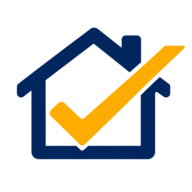
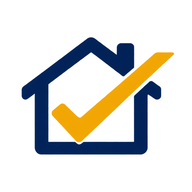
Deploy approved navy, white, and gold CertivoIQ identity

Changed region(s): [[0.0625, 0.125, 0.9688, 0.8438], [0.5625, 0.4688, 0.5938, 0.5], [0.3125, 0.6562, 0.3438, 0.6875]]

diff --git a/src/routes/auth.tsx b/src/routes/auth.tsx
@@ -150,7 +150,7 @@ function AuthPage() {
   const heading = mfaMode ? "Two-factor authentication" : mode === "signin" ? "Sign in to CertivoIQ" : mode === "signup" ? "Create your CertivoIQ account" : "Reset your CertivoIQ password";
   return (
     <div className="grid min-h-screen place-items-center bg-background px-4 py-12"><div className="w-full max-w-md">
-      <Link to="/welcome" className="flex items-center justify-center gap-2.5"><img src="/certivoiq-logo.png" alt="CertivoIQ" className="h-11 w-auto rounded-md bg-white px-2 py-1.5 object-contain" /></Link>
+      <Link to="/welcome" className="flex items-center justify-center gap-2.5"><img src="/certivoiq-logo.png" alt="CertivoIQ" className="h-12 w-auto object-contain" /></Link>
       <div className="mt-7 rounded-xl border border-border bg-card p-6 shadow-sm"><h1 className="font-display text-[22px] leading-tight"><IQText>{heading}</IQText></h1><p className="mt-1 text-[13px] text-muted-foreground">{mfaMode ? "Enter the 6-digit code from your authenticator app." : mode === "forgot" ? "Enter your work email and we'll send a secure link to choose a new password." : "Your CertivoIQ compliance workspace."}</p>
         {sentTo && !mfaMode && <div className="mt-4 rounded-lg border border-border bg-muted/40 p-3.5"><p className="flex items-start gap-2 text-[13px]"><MailCheck className="mt-0.5 size-4 shrink-0 text-seal" /><span>{sentTo.kind === "verify" ? "Confirm your email address to activate the account. " : "Password reset link sent. "}We emailed <span className="font-medium">{sentTo.email}</span>.</span></p>{sentTo.kind === "verify" && <Button variant="outline" size="sm" className="mt-3 w-full" disabled={busy} onClick={resendVerification}>{busy && <Loader2 className="size-4 animate-spin" />}Resend verification email</Button>}</div>}
         {mfaMode ? <div className="mt-5 space-y-4"><div className="flex items-center gap-2 rounded-lg border border-gold/30 bg-gold/5 p-3"><KeyRound className="size-4 text-gold" /><p className="text-[13px] text-gold-ink">Your account requires an authenticator code to sign in.</p></div><div><Label htmlFor="mfa-code" className="text-[12px] uppercase tracking-wide">{recoveryMode ? "Recovery code" : "Authenticator code"}</Label><div className="mt-2">{recoveryMode ? <Input id="recovery-code" value={mfaCode} onChange={(e) => setMfaCode(e.target.value.toUpperCase())} placeholder="XXXX-XXXX-XXX" disabled={busy} autoComplete="off" /> : <InputOTP id="mfa-code" maxLength={6} value={mfaCode} onChange={setMfaCode} disabled={busy}><InputOTPGroup><InputOTPSlot index={0} /><InputOTPSlot index={1} /><InputOTPSlot index={2} /><InputOTPSlot index={3} /><InputOTPSlot index={4} /><InputOTPSlot index={5} /></InputOTPGroup></InputOTP>}</div><Button className="mt-4 w-full" disabled={busy || (recoveryMode ? mfaCode.length < 8 : mfaCode.length !== 6)} onClick={recoveryMode ? handleRecoveryCode : handleMfaVerify}>{busy && <Loader2 className="mr-2 size-4 animate-spin" />}{recoveryMode ? "Use recovery code" : "Verify and sign in"}</Button></div></div> : <form onSubmit={submit} className="mt-5 space-y-3.5">{mode === "signup" && <div className="space-y-1.5"><Label htmlFor="name">Full name</Label><Input id="name" value={name} onChange={(e) => setName(e.target.value)} maxLength={120} /></div>}<div className="space-y-1.5"><Label htmlFor="email">Work email</Label><Input id="email" type="email" required autoComplete="email" value={email} onChange={(e) => setEmail(e.target.value)} maxLength={255} /></div>{mode !== "forgot" && <div className="space-y-1.5"><div className="flex items-baseline justify-between"><Label htmlFor="password">Password</Label>{mode === "signin" && <button type="button" className="text-[12px] font-medium text-primary hover:underline" onClick={() => { setSentTo(null); setMode("forgot"); }}>Forgot password?</button>}</div><Input id="password" type="password" required minLength={8} autoComplete={mode === "signin" ? "current-password" : "new-password"} value={password} onChange={(e) => setPassword(e.target.value)} /></div>}<Button type="submit" className="w-full" disabled={busy}>{busy && <Loader2 className="size-4 animate-spin" />}{mode === "signin" ? "Sign in" : mode === "signup" ? "Create account" : "Send reset link"}</Button></form>}

diff --git a/src/routes/welcome.tsx b/src/routes/welcome.tsx
@@ -93,7 +93,7 @@ function WelcomePage() {
       <header className="sticky top-0 z-40 border-b border-border/80 bg-background/90 backdrop-blur">
         <div className="mx-auto flex max-w-7xl items-center justify-between gap-4 px-5 py-4 lg:px-8">
           <Link to="/welcome" className="flex items-center gap-2.5">
-            <img src="/certivoiq-logo.png" alt="CertivoIQ" className="h-9 w-auto rounded-md bg-white px-1.5 py-1 object-contain" />
+            <img src="/certivoiq-logo.png" alt="CertivoIQ" className="h-11 w-auto object-contain" />
           </Link>
           <nav className="hidden items-center gap-1 md:flex">
             <a href="#how-it-works" className="px-3 py-2 text-[13px] text-muted-foreground hover:text-foreground">How it works</a>
@@ -295,7 +295,7 @@ function WelcomePage() {
 
       <footer className="border-t border-border py-8">
         <div className="mx-auto flex max-w-7xl flex-col items-center justify-between gap-3 px-5 text-center sm:flex-row sm:text-left lg:px-8">
-          <div><img src="/certivoiq-logo.png" alt="CertivoIQ" className="h-8 w-auto rounded bg-white px-1.5 py-1 object-contain" /><p className="mt-1 text-[11px] text-muted-foreground">FIND COMPLIANCE RISK BEFORE THE AUDITOR.</p></div>
+          <div><img src="/certivoiq-logo.png" alt="CertivoIQ" className="h-9 w-auto object-contain" /><p className="mt-1 text-[11px] text-muted-foreground">FIND COMPLIANCE RISK BEFORE THE AUDITOR.</p></div>
           <div className="flex flex-wrap justify-center gap-4 text-[11px] text-muted-foreground sm:justify-end"><Link className="underline" to="/privacy">Privacy</Link><Link className="underline" to="/terms">Terms</Link><Link className="underline" to="/security">Security &amp; data use</Link><Link className="underline" to="/methodology">Methodology</Link><Link className="underline" to="/contact-support">Contact</Link></div>
         </div>
         <p className="cite mt-4 text-center">Federal baseline review only. State-agency, allocating-agency, local, and project-specific requirements require separate Manual Review.</p>

diff --git a/src/routes/_authenticated/marketing-kit.tsx b/src/routes/_authenticated/marketing-kit.tsx
@@ -69,7 +69,7 @@ function MarketingKitPage() {
       </div>
       <article className="print-sheet mx-auto my-8 max-w-3xl rounded-lg border border-border bg-card p-8 shadow-ledger print:my-0">
         <header className="flex items-start justify-between gap-4 border-b border-border pb-5">
-          <div><img src="/certivoiq-logo.png" alt="CertivoIQ" className="h-12 w-auto rounded-md bg-white px-2 py-1 object-contain" /><p className="mt-1.5 text-[12.5px] text-muted-foreground">Compliance intelligence infrastructure — LIHTC · HOME · Project-Based Section 8 · HOTMA</p></div>
+          <div><img src="/certivoiq-logo.png" alt="CertivoIQ" className="h-14 w-auto object-contain" /><p className="mt-1.5 text-[12.5px] text-muted-foreground">Compliance intelligence infrastructure — LIHTC · HOME · Project-Based Section 8 · HOTMA</p></div>
           <p className="text-right text-[11.5px] leading-snug text-muted-foreground">certivoiq.com/welcome<br />Federal baseline compliance intelligence</p>
         </header>
         <section className="print-avoid-break mt-6"><h2 className="font-display text-[26px] leading-[1.15]">One missed certification can cost <span className="text-reject">years of tax credits</span></h2><p className="mt-3 text-[13.5px] leading-relaxed text-muted-foreground">CertivoIQ evaluates certification evidence against supported, versioned federal requirements and returns traceable findings or Unable to Determine when evidence or scope is incomplete. An authorized compliance agent retains Agent Approval authority and provides an Agent Signature.</p></section>

diff --git a/src/components/explainer-video.tsx b/src/components/explainer-video.tsx
@@ -88,7 +88,7 @@ function Scene4() {
   return (
     <div style={{ textAlign: "center", maxWidth: 560, margin: "0 auto" }}>
       <div style={{ fontFamily: C.mono, fontSize: 11, letterSpacing: "0.25em", color: C.muted, textTransform: "uppercase", marginBottom: 20, ...a("fadeUp", "0.1s") }}>federal baseline compliance intelligence</div>
-      <img src="/certivoiq-logo.png" alt="CertivoIQ" style={{ width: "min(360px,80vw)", height: "auto", margin: "0 auto 14px", borderRadius: 8, background: "#ffffff", padding: "8px 12px", objectFit: "contain", ...a("scaleIn", "0.3s", "0.7s") }} />
+      <img src="/certivoiq-logo-dark.png" alt="CertivoIQ" style={{ width: "min(420px,84vw)", height: "auto", margin: "0 auto 18px", objectFit: "contain", ...a("scaleIn", "0.3s", "0.7s") }} />
       <div style={{ fontSize: "clamp(13px,1.9vw,17px)", color: C.sky, lineHeight: 1.6, marginBottom: 30, ...a("fadeUp", "0.7s") }}>Find compliance risk before the auditor.</div>
       <div style={{ display: "flex", justifyContent: "center", ...a("fadeUp", "0.95s") }}><a href="/trial" style={{ borderRadius: 8, background: C.blue, padding: "12px 24px", fontSize: 14, fontWeight: 600, color: C.white, textDecoration: "none", boxShadow: "0 4px 18px rgba(37,99,235,0.45)" }}>Try CertivoIQ for Free</a></div>
       <div style={{ marginTop: 14, fontSize: "clamp(10px,1.3vw,12px)", color: C.muted, ...a("fadeUp", "1.1s", "0.5s") }}>$65,000 ANNUAL PLATFORM LICENSE</div>

diff --git a/src/components/app-shell.tsx b/src/components/app-shell.tsx
@@ -43,7 +43,7 @@ const NAV = [
 function Wordmark() {
   return (
     <Link to="/dashboard" className="flex items-center gap-2.5">
-      <img src="/certivoiq-logo.png" alt="CertivoIQ" className="h-9 w-auto rounded-md bg-white px-1.5 py-1 object-contain" />
+      <img src="/certivoiq-logo-dark.png" alt="CertivoIQ" className="h-12 w-auto object-contain" />
     </Link>
   );
 }
@@ -88,7 +88,7 @@ export function AppShell({ children, title, subtitle, actions }: { children: Rea
     <div className="min-h-screen lg:grid lg:grid-cols-[248px_1fr]">
       <aside className="hidden flex-col border-r border-sidebar-border bg-sidebar px-4 py-5 lg:sticky lg:top-0 lg:flex lg:h-screen">
         <Wordmark />
-        <p className="mt-1.5 pl-[42px] text-[11px] tracking-wide text-sidebar-foreground/55">{t("shell.tagline")}</p>
+        <p className="mt-2 pl-1 text-[11px] tracking-wide text-sidebar-foreground/55">{t("shell.tagline")}</p>
         <div className="mt-7 overflow-y-auto"><NavLinks /></div>
         <div className="mt-auto rounded-lg border border-sidebar-border/70 bg-sidebar-accent/40 p-3">
           <p className="cite text-[10.5px] uppercase tracking-[0.16em] text-sidebar-foreground/60">{t("shell.rulePacksActive")}</p>

diff --git a/src/routes/__root.tsx b/src/routes/__root.tsx
@@ -96,8 +96,8 @@ export const Route = createRootRouteWithContext<{ queryClient: QueryClient }>()(
       { property: "og:url", content: "https://certivoiq.com/welcome" },
       { property: "og:site_name", content: "CertivoIQ" },
       { property: "og:image", content: "https://certivoiq.com/certivoiq-social-card.png" },
-      { property: "og:image:width", content: "1254" },
-      { property: "og:image:height", content: "1254" },
+      { property: "og:image:width", content: "1200" },
+      { property: "og:image:height", content: "630" },
       { property: "og:image:alt", content: "CertivoIQ — Find compliance risk before the auditor." },
       { name: "twitter:card", content: "summary_large_image" },
       { name: "twitter:image", content: "https://certivoiq.com/certivoiq-social-card.png" },

diff --git a/src/routes/pha/$persona.tsx b/src/routes/pha/$persona.tsx
@@ -211,7 +211,7 @@ function PhaPersonaPage() {
     <div className="min-h-screen bg-background text-foreground">
       <header className="border-b border-border/80 bg-background/95">
         <div className="mx-auto flex max-w-7xl items-center justify-between px-5 py-4 lg:px-8">
-          <Link to="/welcome"><img src="/certivoiq-logo.png" alt="CertivoIQ" className="h-9 w-auto rounded-md bg-white px-1.5 py-1" /></Link>
+          <Link to="/welcome"><img src="/certivoiq-logo.png" alt="CertivoIQ" className="h-11 w-auto object-contain" /></Link>
           <div className="flex items-center gap-3">
             <Button variant="outline" asChild><Link to="/pha">PHA roles</Link></Button>
             <Button asChild><a href="#request">{page.cta}</a></Button>

diff --git a/src/components/public-shell.tsx b/src/components/public-shell.tsx
@@ -8,7 +8,7 @@ import { LanguageToggle } from "@/components/language-toggle";
 function PublicWordmark() {
   return (
     <Link to="/welcome" className="flex min-w-0 items-center gap-2.5">
-      <img src="/certivoiq-logo.png" alt="CertivoIQ" className="h-9 w-auto shrink-0 rounded-md bg-white px-1.5 py-1 object-contain" />
+      <img src="/certivoiq-logo.png" alt="CertivoIQ" className="h-11 w-auto shrink-0 object-contain" />
       <span className="hidden truncate text-[11.5px] font-semibold uppercase leading-tight tracking-[.12em] text-muted-foreground lg:inline">
         Affordable Housing Compliance Intelligence
       </span>

diff --git a/src/routes/methodology.tsx b/src/routes/methodology.tsx
@@ -77,7 +77,7 @@ function MethodologyPage() {
       <header className="border-b border-border">
         <div className="mx-auto flex max-w-4xl items-center justify-between gap-4 px-5 py-4">
           <Link to="/welcome" className="flex items-center gap-2.5">
-            <img src="/certivoiq-logo.png" alt="CertivoIQ" className="h-9 w-auto rounded-md bg-white px-1.5 py-1 object-contain" />
+            <img src="/certivoiq-logo.png" alt="CertivoIQ" className="h-11 w-auto object-contain" />
           </Link>
           <Button size="sm" variant="outline" asChild>
             <Link to="/security">Security &amp; Data Use</Link>

diff --git a/src/routes/pha/index.tsx b/src/routes/pha/index.tsx
@@ -76,7 +76,7 @@ function PhaOverviewPage() {
       <header className="border-b border-border/80 bg-background/95">
         <div className="mx-auto flex max-w-7xl items-center justify-between px-5 py-4 lg:px-8">
           <Link to="/welcome">
-            <img src="/certivoiq-logo.png" alt="CertivoIQ" className="h-9 w-auto rounded-md bg-white px-1.5 py-1" />
+            <img src="/certivoiq-logo.png" alt="CertivoIQ" className="h-11 w-auto object-contain" />
           </Link>
           <div className="flex items-center gap-3">
             <Button variant="outline" asChild><Link to="/welcome">Main site</Link></Button>

diff --git a/src/routes/security.tsx b/src/routes/security.tsx
@@ -74,7 +74,7 @@ function SecurityCenterPage() {
       <header className="border-b border-border">
         <div className="mx-auto flex max-w-4xl items-center justify-between gap-4 px-5 py-4">
           <Link to="/welcome" className="flex items-center gap-2.5">
-            <img src="/certivoiq-logo.png" alt="CertivoIQ" className="h-9 w-auto rounded-md bg-white px-1.5 py-1 object-contain" />
+            <img src="/certivoiq-logo.png" alt="CertivoIQ" className="h-11 w-auto object-contain" />
           </Link>
           <Button size="sm" variant="outline" asChild>
             <Link to="/methodology">Methodology</Link>

diff --git a/src/routes/contact-support.tsx b/src/routes/contact-support.tsx
@@ -94,7 +94,7 @@ function ContactSupportPage() {
       <header className="border-b border-border">
         <div className="mx-auto flex max-w-6xl items-center justify-between gap-4 px-5 py-4">
           <Link to="/welcome" className="flex items-center gap-2.5">
-            <img src="/certivoiq-logo.png" alt="CertivoIQ" className="h-9 w-auto rounded-md bg-white px-1.5 py-1 object-contain" />
+            <img src="/certivoiq-logo.png" alt="CertivoIQ" className="h-11 w-auto object-contain" />
           </Link>
           <div className="flex items-center gap-2">
             <Button size="sm" variant="outline" asChild>
